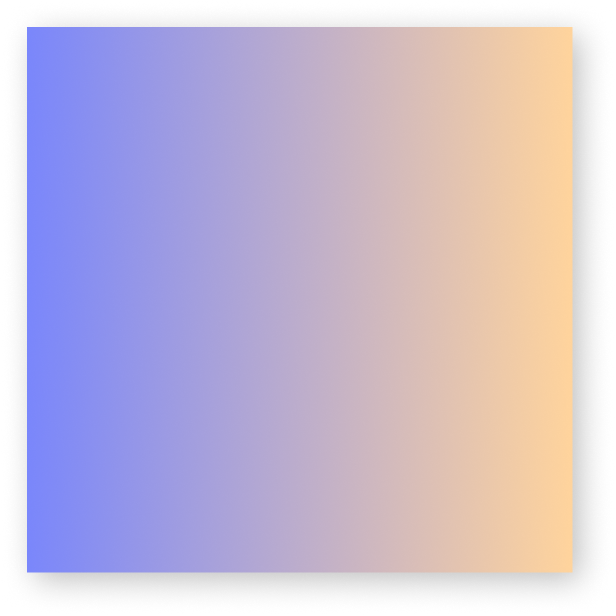
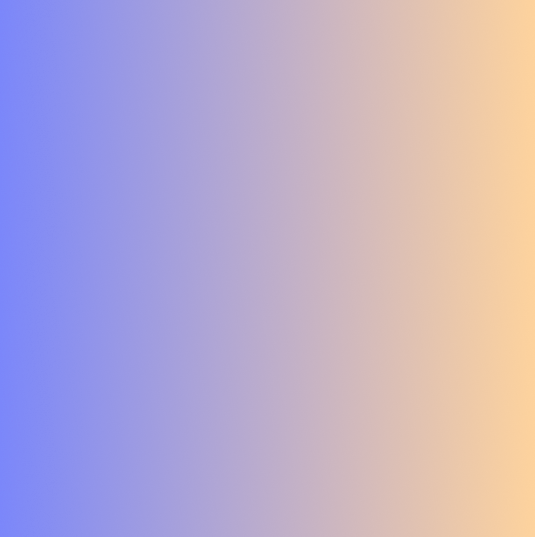
Update FeaturedSec layout and add Explore Site link
Refactored the FeaturedSec component to improve spacing and layout, added a new 'Explore Site' link with an icon for each project, and updated the project image container. Also updated the prj.png image.

Changed region(s): [[0.0, 0.0, 1.0, 1.0]]

diff --git a/src/components/FeaturedSec.jsx b/src/components/FeaturedSec.jsx
@@ -1,3 +1,4 @@
+import { MoveRight } from 'lucide-react'
 import React from 'react'
 
 export const FeaturedSec = () => {
@@ -29,20 +30,25 @@ export const FeaturedSec = () => {
     ]
     return (
         <div className='bg-[var(--dark)]'>
-            <div className="title container mx-auto py-20 text-center text-[var(--light)]">
+            <div className="title container mx-auto pt-20 pb-6 text-center text-[var(--light)]">
                 <span className='headingFont'>Our work</span>
                 <h2 className='text-[40px] font-bold headingFont'>
                     Some of our<br />
                     featured projects
                 </h2>
             </div>
-            <div className='container mx-auto grid grid-cols-1 md:grid-cols-2'>
-                {featuredProjects.map((proj, i)=>(
+            <div className='container mx-auto grid grid-cols-1 md:grid-cols-2 gap-8'>
+                {featuredProjects.map((proj, i) => (
                     <div key={i} className="imageCard overflow-hidden">
-                        <img src={proj.imageUrl} alt={proj.title} className='w-full h-[300px] object-fill'/>
+                        <div className="imgs w-full h-[300px]">
+                            <img src={proj.imageUrl} alt={proj.title} className='w-full h-full object-fill' />
+                        </div>
                         <div className="texts text-[var(--light)]">
                             <h3 className='text-[24px] font-bold text-[var(--light)] headingFont my-4'>{proj.title}</h3>
                             <p className='text-[16px] text-[var(--lightShade)] leading-[1.6]'>{proj.description}</p>
+                            <div className="exploreSite mt-4">
+                                <a className='text-[var(--primary-color)] underline flex items-center gap-2' href="#">Explore Site <MoveRight /></a>
+                            </div>
                         </div>
                     </div>
                 ))}
